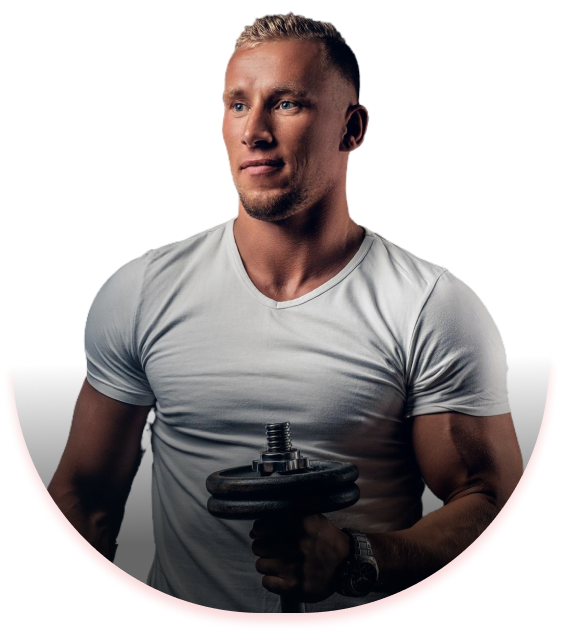
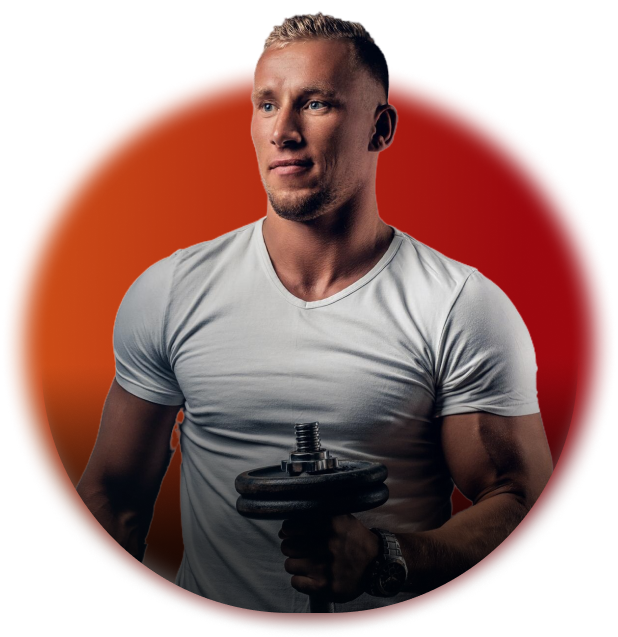
chore: Update hero with new components

diff --git a/src/components/Hero.tsx b/src/components/Hero.tsx
@@ -2,27 +2,30 @@ import React from 'react'
 import Button from './ui/Button'
 import MutedButton from './ui/MutedButton'
 import Image from 'next/image'
+import Labels from './ui/Labels'
 
 const Hero = () => {
     return (
         <div className='flex items-center justify-center'>
             <section className='w-1/2 ml-[2rem] flex flex-col items-center '>
-                <div className='bg-red-500'>
-                    <h2 className='text-2xl p-[.5rem]'>Achieve Your</h2>
-                    <h1 className='text-4xl font-extrabold p-[.5rem]'>Fitness Goals</h1>
-                    <h2 className='text-2xl p-[.5rem]'>with the best in Industry</h2>
+                <div className='text-wrap pl-[1rem]'>
+                    <h2 className='text-2xl'> Achieve Your</h2>
+                    <h1 className='text-8xl font-extrabold text-gradient'>Fitness Goals</h1>
+                    <h2 className='text-2xl mb-[1rem]'>with the best in Industry</h2>
+                    <p>Join the Fitmaker community and transform your fitness journey. Our expert coaches and personalized programs are designed to help you achieve your goals and exceed your expectations. Ready to make a change?</p>
                 </div>
-                <p>Join the Fitmaker community and transform your fitness journey. Our expert coaches and personalized programs are designed to help you achieve your goals and exceed your expectations. Ready to make a change?</p>
-                <div className='flex items-center justify-center'>
-                <section className='w-1/2'><Button text="Start your journey" w="full"/></section>
-                <section className='w-1/2'><MutedButton text="Explore Programs"w="full"/></section>
+
+                <div className='flex items-center justify-center w-full'>
+                    <section className='w-1/2'><Button text="Start your journey" w="full" /></section>
+                    <section className='w-1/2'><MutedButton text="Explore Programs" w="full" /></section>
                 </div>
-                
+
 
             </section>
-            {/* <section className='w-1/2  ml-[2rem] flex items-center justify-center'>
-            <Image src="/assets/trainer.png" alt='hero' className='bg-cover' width={536} height={609}></Image>
-            </section> */}
+            <section className='w-1/2  ml-[2rem] flex items-center justify-center'>
+                <Image src="/assets/grp3.png" alt='hero' className='absolute bg-cover bg-center ' width={600} height={700}></Image>
+                <Image src="/assets/trainer.png" alt='hero' className='relative bg-cover' width={536} height={609}></Image>
+            </section>
         </div>
     )
 }

diff --git a/src/components/ui/Labels.tsx b/src/components/ui/Labels.tsx
@@ -1,0 +1,12 @@
+import React from 'react'
+
+const Labels = ({text1, text2}:{text1:string,text2:string}) => {
+  return (
+
+    <button className={`relative border-[#a14219] bg-[#1d1d1d] border-2 px-[1.2rem] py-[.5rem] rounded-3xl m-[1rem]`}>
+        <div className='rounded-xl text-xl mb-[.5rem] text-wrap'>{text1}</div>
+        <p className='rounded-xl text-xs text-wrap'>{text2}</p>
+    </button>
+  )
+}
+export default Labels

diff --git a/src/app/globals.css b/src/app/globals.css
@@ -37,3 +37,13 @@ body {
 .button{
   color: #d90a14 !important
 }
+
+/* styles.css */
+.text-gradient {
+  background: linear-gradient(to right, #d80b15, #ce4a17);
+  -webkit-background-clip: text;
+  -webkit-text-fill-color: transparent;
+  background-clip: text;
+  color: transparent;
+}
+

diff --git a/src/app/page.tsx b/src/app/page.tsx
@@ -7,7 +7,7 @@ import Hero from "@/components/Hero";
 
 export default function Home() {
   return (
-    <div>
+    <div className="bg-[#1D1D1D] min-h-screen">
       <Navbar/>
       <Hero />
     </div>
